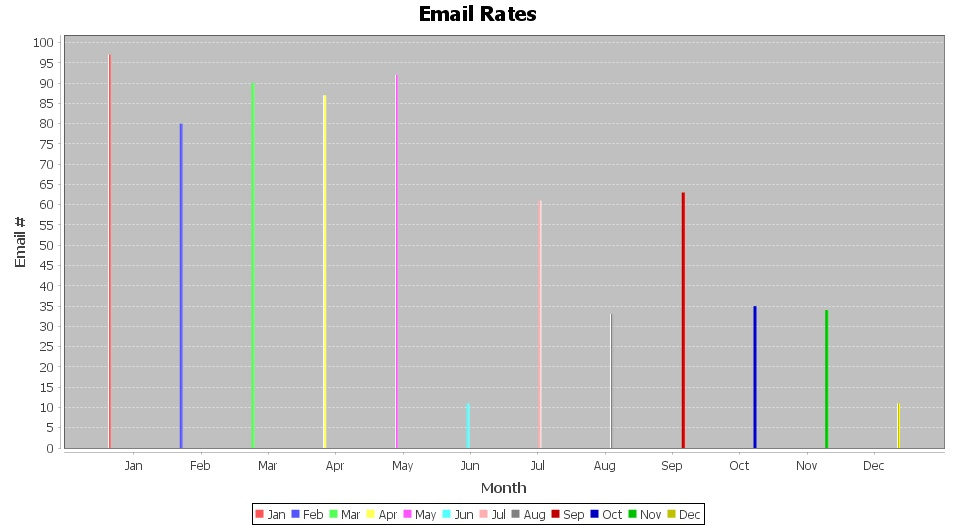
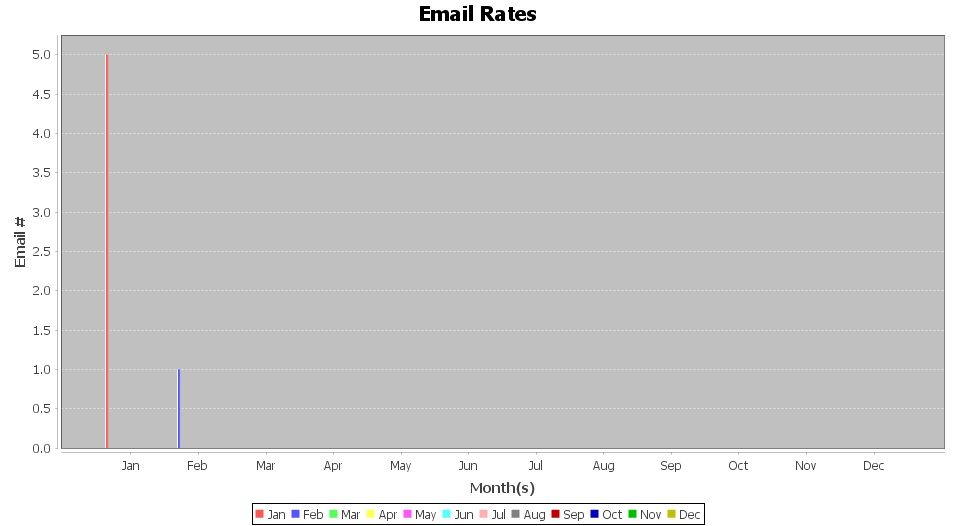
Finished chart code.

diff --git a/src/email/GUI.java b/src/email/GUI.java
@@ -1,8 +1,3 @@
-/*
- * To change this license header, choose License Headers in Project Properties.
- * To change this template file, choose Tools | Templates
- * and open the template in the editor.
- */
 package email;
 
 import java.awt.Desktop;
@@ -24,7 +19,7 @@ import org.jfree.chart.JFreeChart;
 import org.jfree.chart.plot.PlotOrientation;
 import org.jfree.data.category.DefaultCategoryDataset;
 
-/**
+/**megabinman123@gmail.com
  *
  * @author Max Carter
  */
@@ -33,10 +28,16 @@ public class GUI extends javax.swing.JFrame {
     Email email;
     
     public void enterEmailData() {
-        System.out.println(email.getEmailCount(enterUsername.getText(), passwordToString(enterPassword.getPassword()), enterFolder.getText(), (graphTypeMonth.isSelected() ? getTodaysMonth() : "ALL")));
+        String name = enterUsername.getText(), pw = passwordToString(enterPassword.getPassword()), folder = enterFolder.getText();
         
         try {
-            createGraph("ALL");
+            if (graphTypeMonth.isSelected()) {
+                createGraph(getTodaysMonth(), new int[] { email.getEmailCount(name, pw, folder, getTodaysMonth()) });
+            } else {
+                
+                createGraph("ALL", email.getEmailCountPerMonth(name, pw, folder));
+            }
+            
         } catch (NoSuchProviderException ex) {
             
         } catch (Exception ex) {
@@ -56,17 +57,24 @@ public class GUI extends javax.swing.JFrame {
         
     }
     
-    public void createGraph(String month) throws Exception {
+    public void createGraph(String month, int[] values) throws Exception {
         
         final DefaultCategoryDataset dataset = new DefaultCategoryDataset();
         
-        for (String monthTemp : new DateFormatSymbols().getMonths()) {
-            if (!monthTemp.equals("")) {
-                dataset.addValue(new Random().nextInt(90)+10, monthTemp.substring(0, 3), monthTemp.substring(0, 3));
+        if (month.equalsIgnoreCase("ALL")) {
+            int index = 0;
+            
+            for (String monthTemp : new DateFormatSymbols().getMonths()) {
+                if (!monthTemp.equals("")) {
+                    dataset.addValue(values[index], monthTemp.substring(0, 3), monthTemp.substring(0, 3));
+                    index++;
+                }
             }
+        } else {
+            dataset.addValue(values[0], month, month);
         }
         
-        JFreeChart barChart = ChartFactory.createBarChart("Email Rates", "Month", "Email #", dataset, PlotOrientation.VERTICAL, true, true, false);
+        JFreeChart barChart = ChartFactory.createBarChart("Email Rates", "Month(s)", "Email #", dataset, PlotOrientation.VERTICAL, true, true, false);
 
         File BarChart = new File("BarChart.png"); 
         ChartUtilities.saveChartAsJPEG(BarChart , barChart , graphHold.getWidth() , graphHold.getHeight());
@@ -76,23 +84,12 @@ public class GUI extends javax.swing.JFrame {
         graphHold.setIcon(new ImageIcon(image));
     }
     
-    public void openURL(String text) throws URISyntaxException, IOException {
-        if (Desktop.isDesktopSupported()) {
-            Desktop.getDesktop().browse(new URI(text));
-        }
-    }
-    
     public GUI() throws NoSuchProviderException {
         initComponents();
         email = new Email();
         
     }
 
-    /**
-     * This method is called from within the constructor to initialize the form.
-     * WARNING: Do NOT modify this code. The content of this method is always
-     * regenerated by the Form Editor.
-     */
     @SuppressWarnings("unchecked")
     // <editor-fold defaultstate="collapsed" desc="Generated Code">//GEN-BEGIN:initComponents
     private void initComponents() {
@@ -144,7 +141,7 @@ public class GUI extends javax.swing.JFrame {
         );
 
         panelDetails.setBackground(new java.awt.Color(255, 255, 255));
-        panelDetails.setBorder(javax.swing.BorderFactory.createTitledBorder(null, "Email Details", javax.swing.border.TitledBorder.DEFAULT_JUSTIFICATION, javax.swing.border.TitledBorder.DEFAULT_POSITION, new java.awt.Font("Agency FB", 1, 36), new java.awt.Color(0, 153, 153))); // NOI18N
+        panelDetails.setBorder(javax.swing.BorderFactory.createTitledBorder(null, "Email Details", 0, 0, new java.awt.Font("Agency FB", 1, 36), new java.awt.Color(0, 153, 153))); // NOI18N
 
         enterUsername.setFont(new java.awt.Font("Agency FB", 1, 18)); // NOI18N
         enterUsername.setToolTipText("Enter username here...");
@@ -170,11 +167,12 @@ public class GUI extends javax.swing.JFrame {
         enterFolder.setBorder(javax.swing.BorderFactory.createLineBorder(new java.awt.Color(0, 0, 0), 2));
 
         panelTimeFrame.setBackground(new java.awt.Color(255, 255, 255));
-        panelTimeFrame.setBorder(javax.swing.BorderFactory.createTitledBorder(null, "Time Frame", javax.swing.border.TitledBorder.DEFAULT_JUSTIFICATION, javax.swing.border.TitledBorder.DEFAULT_POSITION, new java.awt.Font("Agency FB", 1, 18), new java.awt.Color(0, 153, 153))); // NOI18N
+        panelTimeFrame.setBorder(javax.swing.BorderFactory.createTitledBorder(null, "Time Frame", 0, 0, new java.awt.Font("Agency FB", 1, 18), new java.awt.Color(0, 153, 153))); // NOI18N
 
         type.add(graphTypeMonth);
         graphTypeMonth.setFont(new java.awt.Font("Agency FB", 1, 18)); // NOI18N
         graphTypeMonth.setForeground(new java.awt.Color(0, 153, 153));
+        graphTypeMonth.setSelected(true);
         graphTypeMonth.setText("This Month");
         graphTypeMonth.setToolTipText("Email data for this month");
         graphTypeMonth.setIconTextGap(8);
@@ -239,7 +237,7 @@ public class GUI extends javax.swing.JFrame {
         );
 
         panelGraph.setBackground(new java.awt.Color(255, 255, 255));
-        panelGraph.setBorder(javax.swing.BorderFactory.createTitledBorder(null, "Graph", javax.swing.border.TitledBorder.DEFAULT_JUSTIFICATION, javax.swing.border.TitledBorder.DEFAULT_POSITION, new java.awt.Font("Agency FB", 1, 36), new java.awt.Color(0, 153, 153))); // NOI18N
+        panelGraph.setBorder(javax.swing.BorderFactory.createTitledBorder(null, "Graph", 0, 0, new java.awt.Font("Agency FB", 1, 36), new java.awt.Color(0, 153, 153))); // NOI18N
 
         javax.swing.GroupLayout panelGraphLayout = new javax.swing.GroupLayout(panelGraph);
         panelGraph.setLayout(panelGraphLayout);
@@ -258,7 +256,7 @@ public class GUI extends javax.swing.JFrame {
         );
 
         panelsSettings.setBackground(new java.awt.Color(255, 255, 255));
-        panelsSettings.setBorder(javax.swing.BorderFactory.createTitledBorder(null, "Settions & Options", javax.swing.border.TitledBorder.DEFAULT_JUSTIFICATION, javax.swing.border.TitledBorder.DEFAULT_POSITION, new java.awt.Font("Agency FB", 1, 36), new java.awt.Color(0, 153, 153))); // NOI18N
+        panelsSettings.setBorder(javax.swing.BorderFactory.createTitledBorder(null, "Settions & Options", 0, 0, new java.awt.Font("Agency FB", 1, 36), new java.awt.Color(0, 153, 153))); // NOI18N
 
         about.setBackground(new java.awt.Color(0, 153, 153));
         about.setFont(new java.awt.Font("Agency FB", 1, 18)); // NOI18N
@@ -266,6 +264,11 @@ public class GUI extends javax.swing.JFrame {
         about.setHorizontalAlignment(javax.swing.SwingConstants.CENTER);
         about.setText("Max Carter - mxcrtr.com");
         about.setOpaque(true);
+        about.addMouseListener(new java.awt.event.MouseAdapter() {
+            public void mouseClicked(java.awt.event.MouseEvent evt) {
+                aboutMouseClicked(evt);
+            }
+        });
 
         javax.swing.GroupLayout panelsSettingsLayout = new javax.swing.GroupLayout(panelsSettings);
         panelsSettings.setLayout(panelsSettingsLayout);
@@ -329,6 +332,18 @@ public class GUI extends javax.swing.JFrame {
     private void enterSubmitActionPerformed(java.awt.event.ActionEvent evt) {//GEN-FIRST:event_enterSubmitActionPerformed
         enterEmailData();
     }//GEN-LAST:event_enterSubmitActionPerformed
+
+    private void aboutMouseClicked(java.awt.event.MouseEvent evt) {//GEN-FIRST:event_aboutMouseClicked
+        if (Desktop.isDesktopSupported()) {
+            try {
+                Desktop.getDesktop().browse(new URI("www.mxcrtr.com/"));
+            } catch (URISyntaxException ex) {
+
+            } catch (IOException ex) {
+
+            }
+        }
+    }//GEN-LAST:event_aboutMouseClicked
 
     /**
      * @param args the command line arguments

diff --git a/src/email/Email.java b/src/email/Email.java
@@ -1,5 +1,6 @@
 package email;
 
+import java.text.DateFormatSymbols;
 import java.text.SimpleDateFormat;
 import java.util.Properties;
 import javax.mail.Folder;
@@ -29,13 +30,56 @@ public class Email {
         store = emailSession.getStore("pop3s");
     }
     
+    public int[] getEmailCountPerMonth(String user, String password, String folder) {
+        int[] emailCount = new int[12];
+        
+        try {
+            if (store.isConnected()) {
+                store.close();
+            }
+            store.connect(host, user, password);
+            
+            Folder emailFolder = store.getFolder(folder.toUpperCase());
+            emailFolder.open(Folder.READ_ONLY);
+            Message[] messages = emailFolder.getMessages();
+            
+            int index = 0;
+            
+            for (String monthTemp : new DateFormatSymbols().getMonths()) {
+                int value = 0;
+                if (!monthTemp.equals("")) {
+                    for (int i = 0, n = messages.length; i < n; i++) {
+                        if (dateFormat.format(messages[i].getSentDate()).equalsIgnoreCase(monthTemp.substring(0, 3))) {
+                            value++;
+                        }
+                    }
+                    emailCount[index] = value;
+                    index++;
+                }
+            }
+            
+            
+        } catch (NoSuchProviderException e) {
+            e.printStackTrace();
+        } catch (MessagingException e) {
+            e.printStackTrace();
+        } catch (Exception e) {
+            e.printStackTrace();
+        }
+        
+        return emailCount;
+
+    }
+    
     public int getEmailCount(String user, String password, String folder, String month) {
         int emailCount = 0;
         
         try {
-            if (!store.isConnected()) {
-                store.connect(host, user, password);
+            if (store.isConnected()) {
+                store.close();
             }
+            store.connect(host, user, password);
+            
             Folder emailFolder = store.getFolder(folder.toUpperCase());
             emailFolder.open(Folder.READ_ONLY);
             Message[] messages = emailFolder.getMessages();
